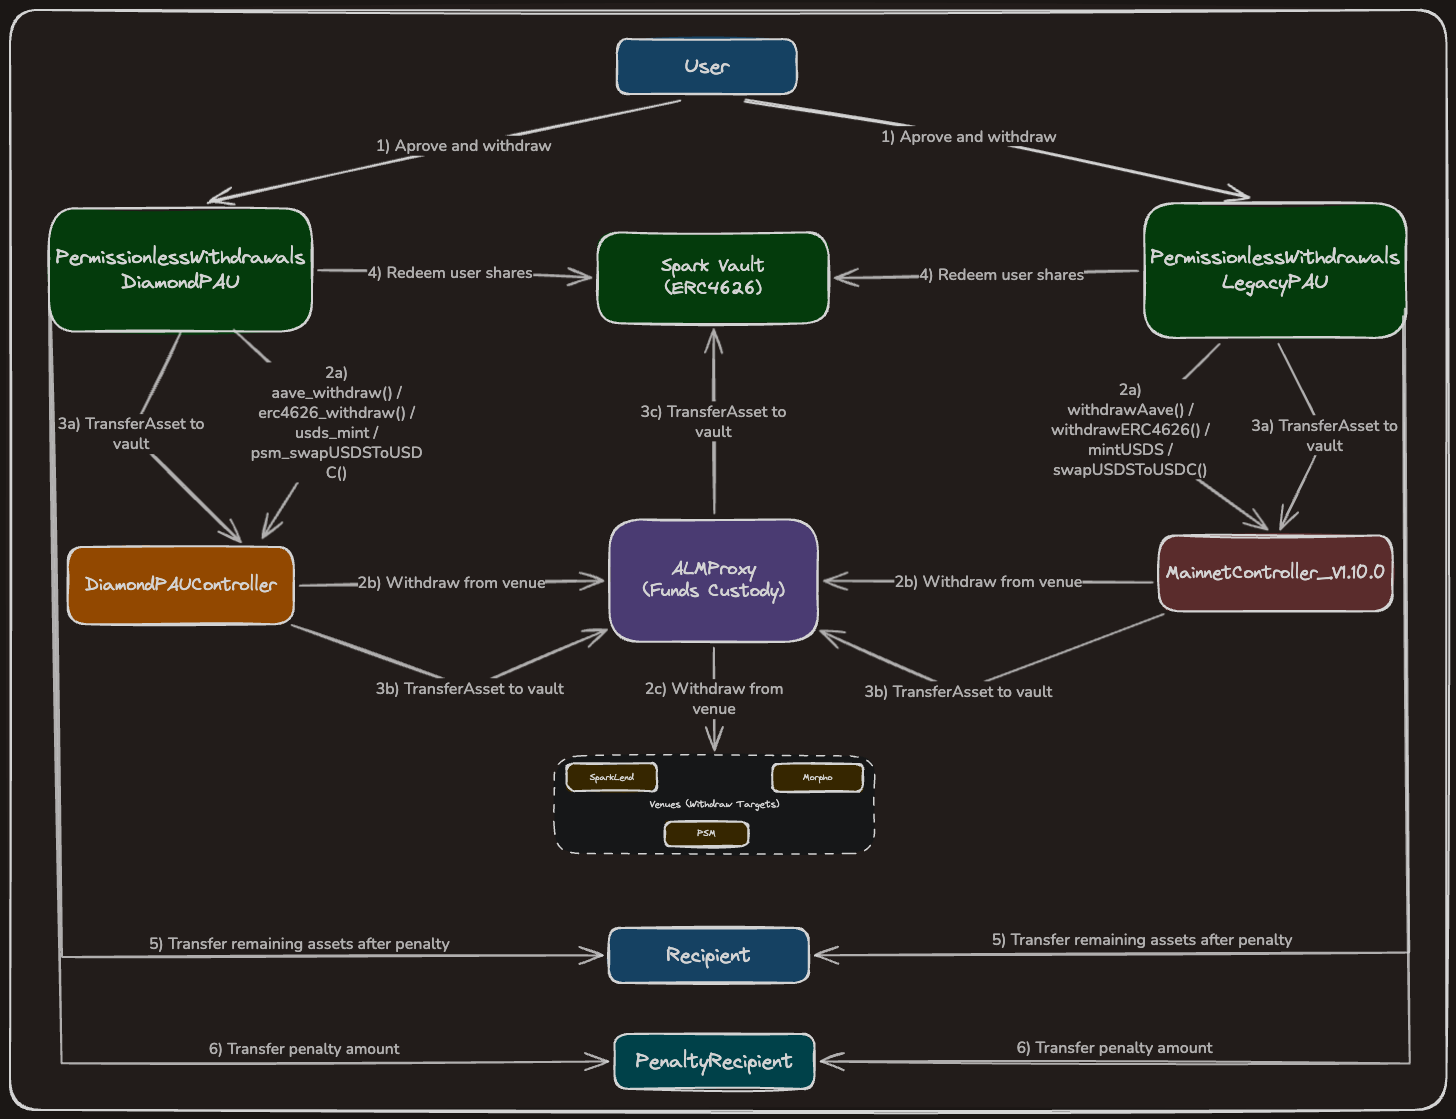
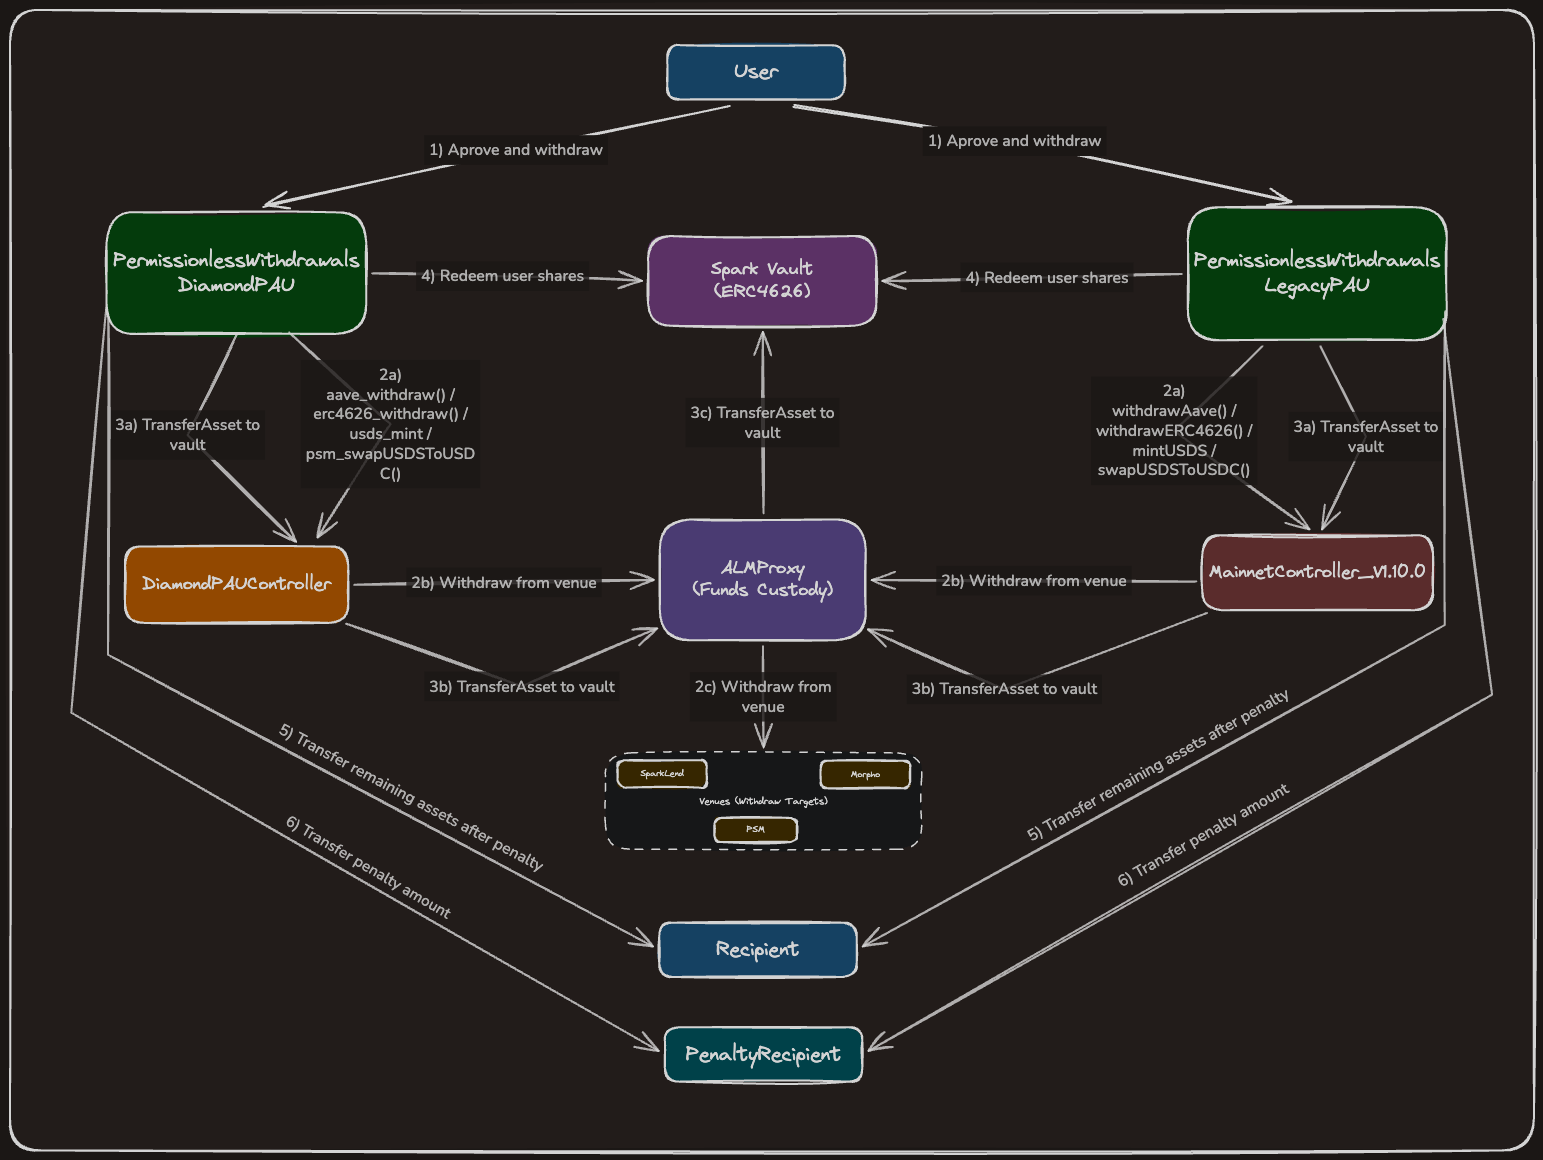
fix: review comments x2

diff --git a/TECH_DOC.md b/TECH_DOC.md
@@ -46,11 +46,16 @@ controller interactions (`_proxy`, `_transferAsset`, `_withdrawAave`, `_withdraw
 `PermissionlessWithdrawalsDiamondPAU` each implement only those hooks against their controller's ABI.
 The same test suite runs against both, so behaviour stays identical across versions.
 
+The controller is fixed at `initialize` and has no setter. Switching implementations is therefore a
+separate deployment, not an in-place upgrade. Initially the `PermissionlessWithdrawalsLegacyPAU` will be deployed, then  `PermissionlessWithdrawalsDiamondPAU` separately once the diamond controller is live.
+
 ### Upgradeability (UUPS), admin is Spark governance
 
 The contract is UUPS upgradeable. This is a deliberately defensive choice rather than a feature for
 iteration. If funds ever become stuck or a bug is discovered, governance can ship an upgrade to
-recover the situation instead of being forced to redeploy and migrate. Upgrade authority is held by
+recover the situation instead of being forced to redeploy and migrate. UUPS exists for bug recovery
+only, an upgrade does not change the controller, which stays fixed from `initialize`. Upgrade
+authority is held by
 `DEFAULT_ADMIN_ROLE`, set to `SPARK_PROXY` (Spark governance). Using the same governance address that
 already controls the ALM system keeps the trust surface consistent and robust, with no separate
 upgrade key to protect.
@@ -63,11 +68,17 @@ When withdrawing from an ERC4626 venue, the contract calls the controller with
 - The caller is permissionless and untrusted, so it cannot be allowed to pass a slippage value.
 - Burdening the admin with a per call bound is impractical and still would not protect against a
   manipulated venue between blocks.
-- The controller already operates under the assumption that any relayer or allocator may be
-  malicious and pass arbitrary amounts, and it protects against this with its own per venue slippage
-  configuration and rate limits. This contract holds exactly that relayer role, so it inherits the
-  same trust model. The controller is the single source of slippage protection for venue
-  withdrawals, and passing `max` simply defers to it.
+- Unlike the controller's deposit and redeem paths, the ERC4626 withdraw path applies no
+  `maxExchangeRate` check. The only protection on this path is the per venue withdraw rate limit.
+  Passing `maxSharesIn = max` is therefore a deliberate accepted risk choice, acceptable because
+  venues are curated and whitelisted by the admin.
+
+### PSM conversion assumes a USDC gem
+
+The PSM path mints USDS and swaps it to the gem using a hardcoded `USDS_CONVERSION_PRECISION = 1e12`,
+which assumes a 6 decimal gem against 18 decimal USDS. This is safe only because the PSM gem is
+permanently USDC. The controller reads this factor from the PSM at call time, but this contract
+relies on the invariant rather than reading it.
 
 ### Venue whitelisting and the incorrect venue guard
 
@@ -90,10 +101,20 @@ Each vault has a fixed penalty deducted from the redeemed assets and sent to the
 It compensates for the cost of force unwinding ALM liquidity and keeps the permissionless path a
 backup rather than the default withdrawal route.
 
+## Known Limitations
+
+- Shared rate-limit budget. The backup path draws down the SLL's shared rate limits (the global
+  `LIMIT_USDS_TO_USDC` and the per venue withdraw keys). It can therefore be exhausted by normal SLL
+  activity or griefed through repeated calls. The fixed penalty per call and the limits regenerating
+  over time are the mitigations.
+
 ## Trust Assumptions
 
 - `DEFAULT_ADMIN_ROLE` (Spark governance, `SPARK_PROXY`): fully trusted. Whitelists vaults and
   venues, sets penalties, and authorizes upgrades.
+- Supported assets must be standard, non-rebasing, non-fee-on-transfer ERC-20s. USDT is in scope and
+  has a dormant fee switch that, if enabled, would break the exact penalty plus recipient amount
+  split.
 - MainnetController, ALMProxy, and RateLimits: trusted to custody funds and enforce rate limits and
   slippage. This contract must hold the controller's relayer role (legacy `RELAYER`, diamond
   `ALLOCATOR_ROLE`), granted by a governance spell, in order to drive the ALMProxy.

diff --git a/README.md b/README.md
@@ -44,23 +44,21 @@ and the proceeds are split between the recipient and the penalty recipient.
 
 ## Quick Start
 
+Initialize submodules:
+
+```bash
+git submodule update --init --recursive
+```
+
 Build:
 
 ```bash
 forge build
 ```
 
-Run the unit tests (no network needed):
+The test suite is fork only and requires a mainnet archive RPC:
 
 ```bash
-forge test --match-path "test/unit/*"
-```
-
-Run the full suite, including the mainnet fork tests. These require a mainnet archive RPC; set
-`MAINNET_API_KEY` (the `mainnet` endpoint is configured in `foundry.toml`):
-
-```bash
-export MAINNET_API_KEY=<your-key>
 forge test
 ```
 
